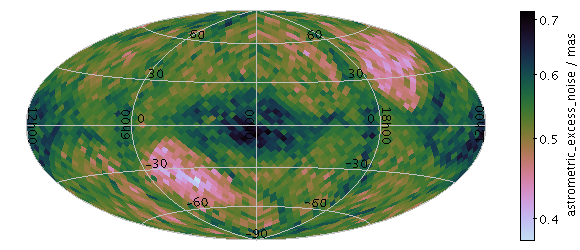
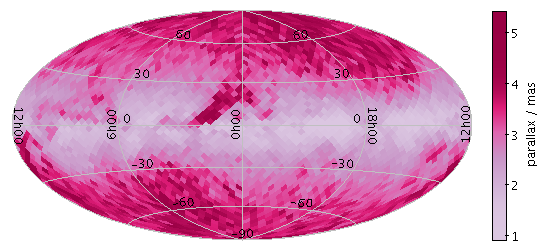
ttools: document histogram scaling options
Add notes in the topcat and stilts user documents about the new options,
and modify one of the example plots so that it uses the histogram
scaling mode.

diff --git a/ttools/src/main/uk/ac/starlink/ttools/plot2/config/RampKeySet.java b/ttools/src/main/uk/ac/starlink/ttools/plot2/config/RampKeySet.java
@@ -147,14 +147,15 @@ public class RampKeySet implements KeySet<RampKeySet.Ramp> {
         };
         keyList.add( quantiseKey_ );
 
+        dataclipKey_ =
+            new SubrangeConfigKey( SubrangeConfigKey
+                                  .createAxisSubMeta( axname, axName ) );
+        if ( hasDataclip ) {
+            keyList.add( dataclipKey_ );
+        }
+
         ConfigMeta scalingMeta = new ConfigMeta( axname + "func", "Scaling" );
         scalingMeta.setShortDescription( axName + " scaling function" );
-        scalingMeta.setXmlDescription( new String[] {
-            "<p>Defines the way that values in the",
-            axName,
-            "range are mapped to the selected colour ramp.",
-            "</p>",
-        } );
         scalingKey_ =
                 new OptionConfigKey<Scaling>( scalingMeta, Scaling.class,
                                               Scaling.STRETCHES, dfltScaling ) {
@@ -163,15 +164,43 @@ public class RampKeySet implements KeySet<RampKeySet.Ramp> {
             }
         };
         scalingKey_.setOptionUsage();
-        scalingKey_.addOptionsXml();
+        scalingMeta.setXmlDescription( new String[] {
+            "<p>Defines the way that values in the",
+            axName,
+            "range are mapped to the selected colour ramp.",
+            "</p>",
+            scalingKey_.getOptionsXml(),
+            "<p>For all these options,",
+            "the full range of data values is used,",
+            "and displayed on the colour bar",
+            ( hasDataclip
+              ? "if applicable"
+                + " (though it can be restricted using the"
+                + " <code>" + dataclipKey_.getMeta().getShortName() + "</code>"
+                + " option)"
+              : "if applicable." ),
+            "The <code>" + Scaling.LINEAR + "</code>,",
+                "<code>" + Scaling.LOG + "</code>,",
+                "<code>" + Scaling.SQUARE + "</code> and",
+                "<code>" + Scaling.SQRT + "</code> options",
+            "just apply the named function to the full data range.",
+            "The histogram options on the other hand use a scaling function",
+            "that corresponds to the actual distribution of the data, so that",
+            "there are about the same number of points (or pixels, or whatever",
+            "is being scaled) of each colour.",
+            "The histogram options are somewhat more expensive,",
+            "but can be a good choice if you are exploring data whose",
+            "distribution is unknown or not well-behaved over",
+            "its min-max range.",
+            "The <code>" + Scaling.HISTO + "</code> and ",
+            "<code>" + Scaling.HISTOLOG + "</code> options both",
+            "assign the colours in the same way, but they display the colour",
+            "ramp with linear or logarithmic annotation respectively;",
+            "the <code>" + Scaling.HISTOLOG +"</code> option also ignores",
+            "non-positive values.",
+            "</p>",
+        } );
         keyList.add( scalingKey_ );
-
-        dataclipKey_ =
-            new SubrangeConfigKey( SubrangeConfigKey
-                                  .createAxisSubMeta( axname, axName ) );
-        if ( hasDataclip ) {
-            keyList.add( dataclipKey_ );
-        }
 
         keys_ = keyList.toArray( new ConfigKey[ 0 ] );
     }

diff --git a/ttools/src/main/uk/ac/starlink/ttools/build/Plot2Example.java b/ttools/src/main/uk/ac/starlink/ttools/build/Plot2Example.java
@@ -1087,10 +1087,10 @@ public class Plot2Example {
             new Plot2Example( "layer-skydensity", c, PlotTask.SKY,
                               new String[] { 
                 "*in=" + TName.TGAS, "*lon=l", "*lat=b", null,
-                "*layer1=skydensity", "*weight1=astrometric_excess_noise",
+                "*layer1=skydensity", "*weight1=parallax",
                 "*combine1=mean", "*level1=4", null,
-                "projection=aitoff", "auxmap=cubehelix", "auxfunc=log", null,
-                "xpix=580", "ypix=250",
+                "projection=aitoff", "auxmap=PuRd", "auxfunc=histogram", null,
+                "xpix=540", "ypix=250",
             } ),
             new Plot2Example( "layer-healpix", c, PlotTask.SKY, new String[] {
                 "*layer1=healpix", "*in1=" + TName.SIMBAD_HPX,
